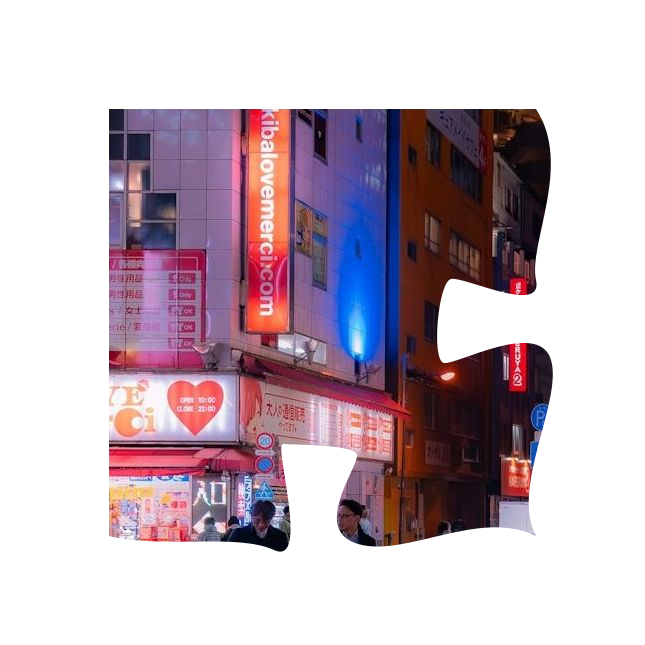
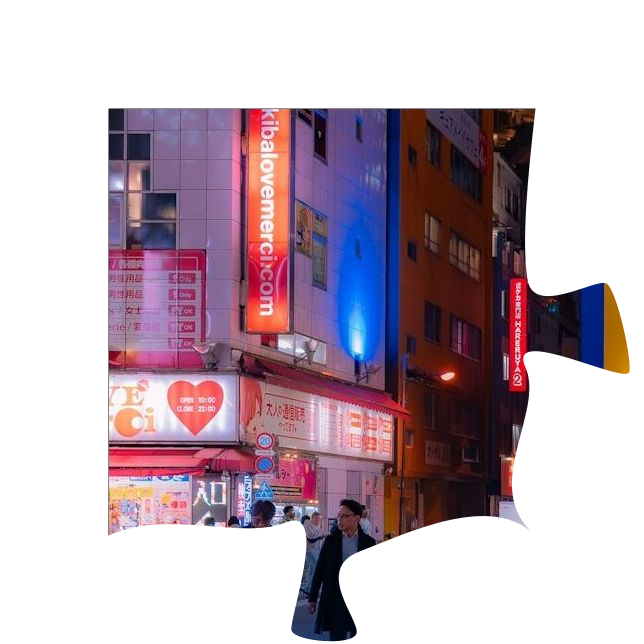
Bug fix: Missed some cols and rows in previous fix

diff --git a/server/src/service/game-builder.ts b/server/src/service/game-builder.ts
@@ -26,7 +26,7 @@ export const pathGenerator = ({
   const pinSize = calculatePinSize(pieceSize);
 
   // Generate horizontal paths
-  for (let i = 0; i < rows; i++) {
+  for (let i = 0; i < rows - 1; i++) {
     const pathBuilder = new Path(origin, pieceSize, pinSize, cols);
 
     pathBuilder.generateCompletePath('complete');
@@ -39,7 +39,7 @@ export const pathGenerator = ({
   }
 
   // Generate vertical paths
-  for (let i = 0; i < cols; i++) {
+  for (let i = 0; i < cols - 1; i++) {
     const pathBuilder = new Path(origin, pieceSize, pinSize, rows);
 
     pathBuilder.generateCompletePath('complete');
@@ -64,8 +64,8 @@ export const createPieces = ({
   });
 
   // Extract the number of rows and columns from the paths
-  const rows = piecesBuilder.horizontalCurves.length;
-  const cols = piecesBuilder.verticalCurves.length;
+  const rows = piecesBuilder.horizontalCurves.length + 1;
+  const cols = piecesBuilder.verticalCurves.length + 1;
   const pieceSize = piecesBuilder.pieceSize;
 
   // Generate all curves. Creates curve objects for each path.
@@ -76,9 +76,9 @@ export const createPieces = ({
 
   // Generate the enclosing shape as svg for each piece
   const enclosedShapesSvg: string[][] = [];
-  for (let i = 0; i <= rows; i++) {
+  for (let i = 0; i < rows; i++) {
     const column: string[] = [];
-    for (let j = 0; j <= cols; j++) {
+    for (let j = 0; j < cols; j++) {
       const enclosedShape = piecesBuilder.generateEnclosedShape(i, j);
       const svgPaths = piecesBuilder.enclosedShapeToSvgPaths(enclosedShape);
       const enclosedShapeSvg = piecesBuilder.enclosedShapeToSvg(svgPaths, i, j);

diff --git a/frontend/src/features/jigsaw-builder/components/paths-mask.tsx b/frontend/src/features/jigsaw-builder/components/paths-mask.tsx
@@ -8,8 +8,8 @@ interface PathsMaskProps {
 
 function PathsMask({ paths, pieceSize, scale }: PathsMaskProps) {
   const rect = {
-    height: paths.horizontal.length * pieceSize,
-    width: paths.vertical.length * pieceSize,
+    height: (paths.horizontal.length + 1) * pieceSize,
+    width: (paths.vertical.length + 1) * pieceSize,
   };
   console.log("Paths mask dimensions:", {
     height: rect.height,

diff --git a/frontend/src/hooks/use-image-to-game-data.ts b/frontend/src/hooks/use-image-to-game-data.ts
@@ -52,6 +52,10 @@ function useImageToGameData({ image, pieceQuantity }: UseImageToGameDataProps) {
         }
       }
 
+      console.log("finalColumns", finalColumns);
+      console.log("finalRows", finalRows);
+      console.log("finalPieceSize", finalPieceSize);
+
       return {
         finalColumns,
         finalRows,

diff --git a/server/src/routes/game.ts b/server/src/routes/game.ts
@@ -117,6 +117,8 @@ export const gameRoute = new Hono()
       .from(games)
       .where(eq(games.id, Number(gameId)));
 
+    console.log('game', game);
+
     if (!game) {
       throw new HTTPException(404, { message: 'Game not found' });
     }
